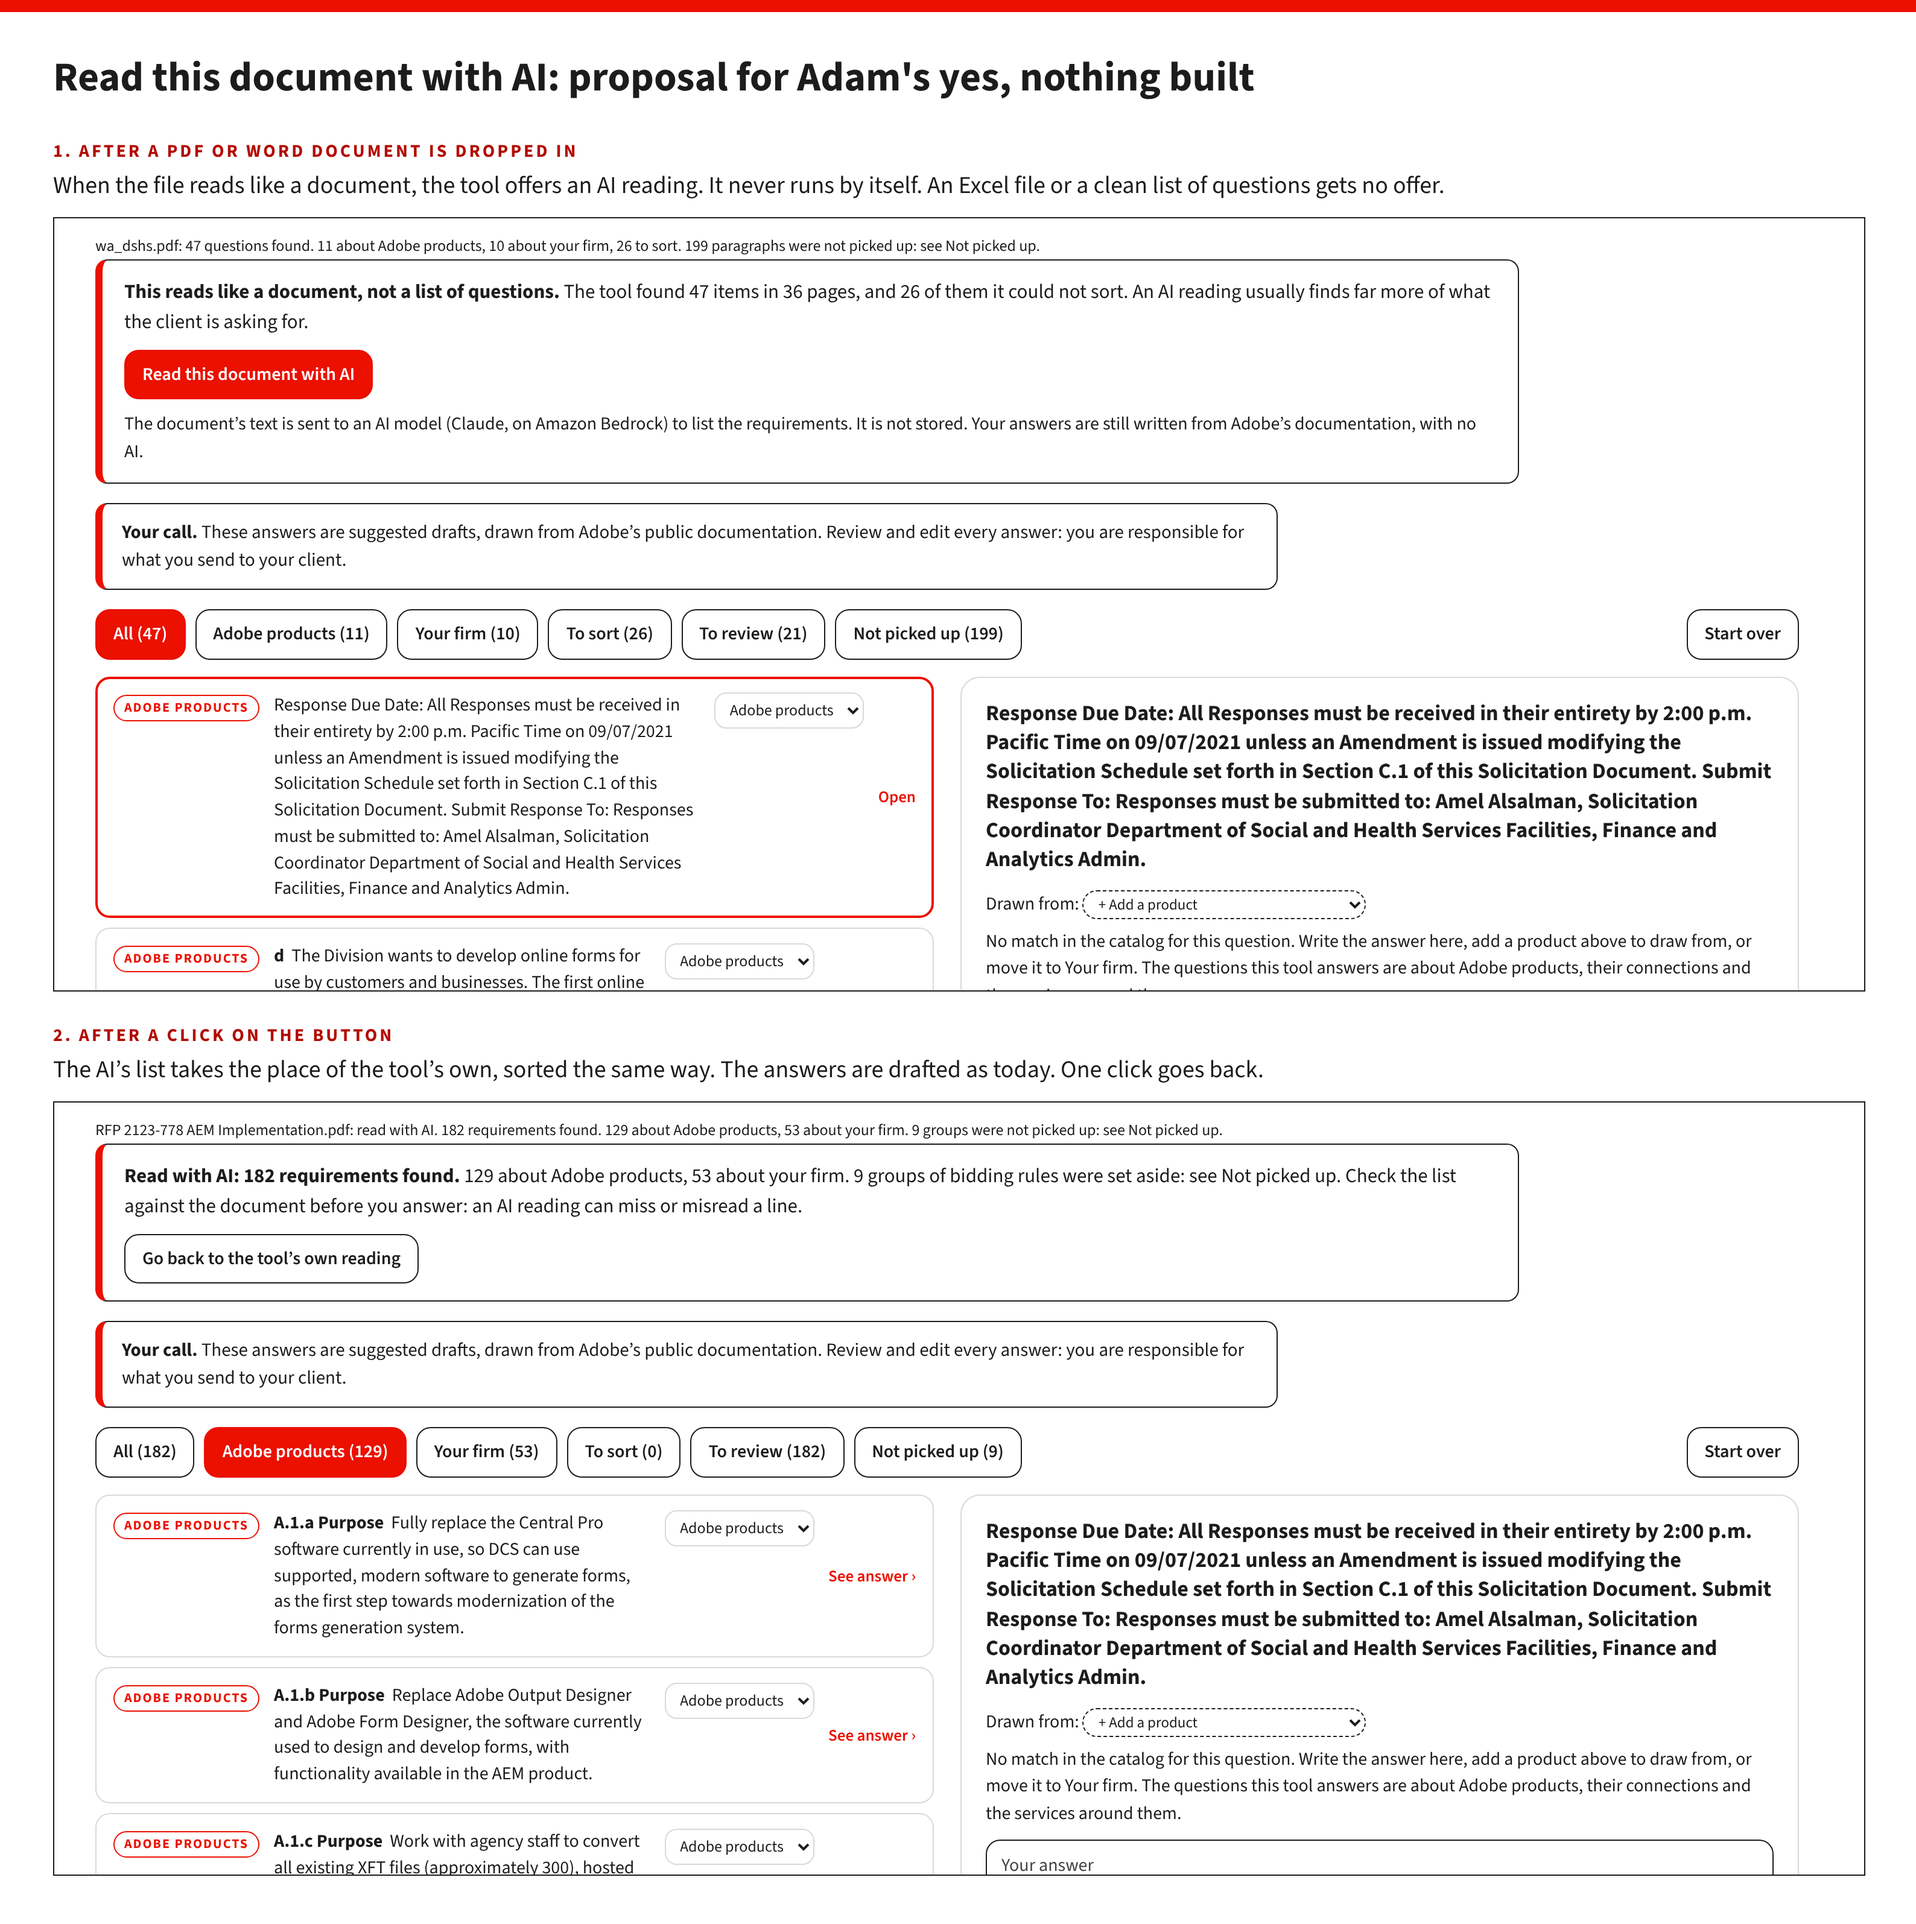
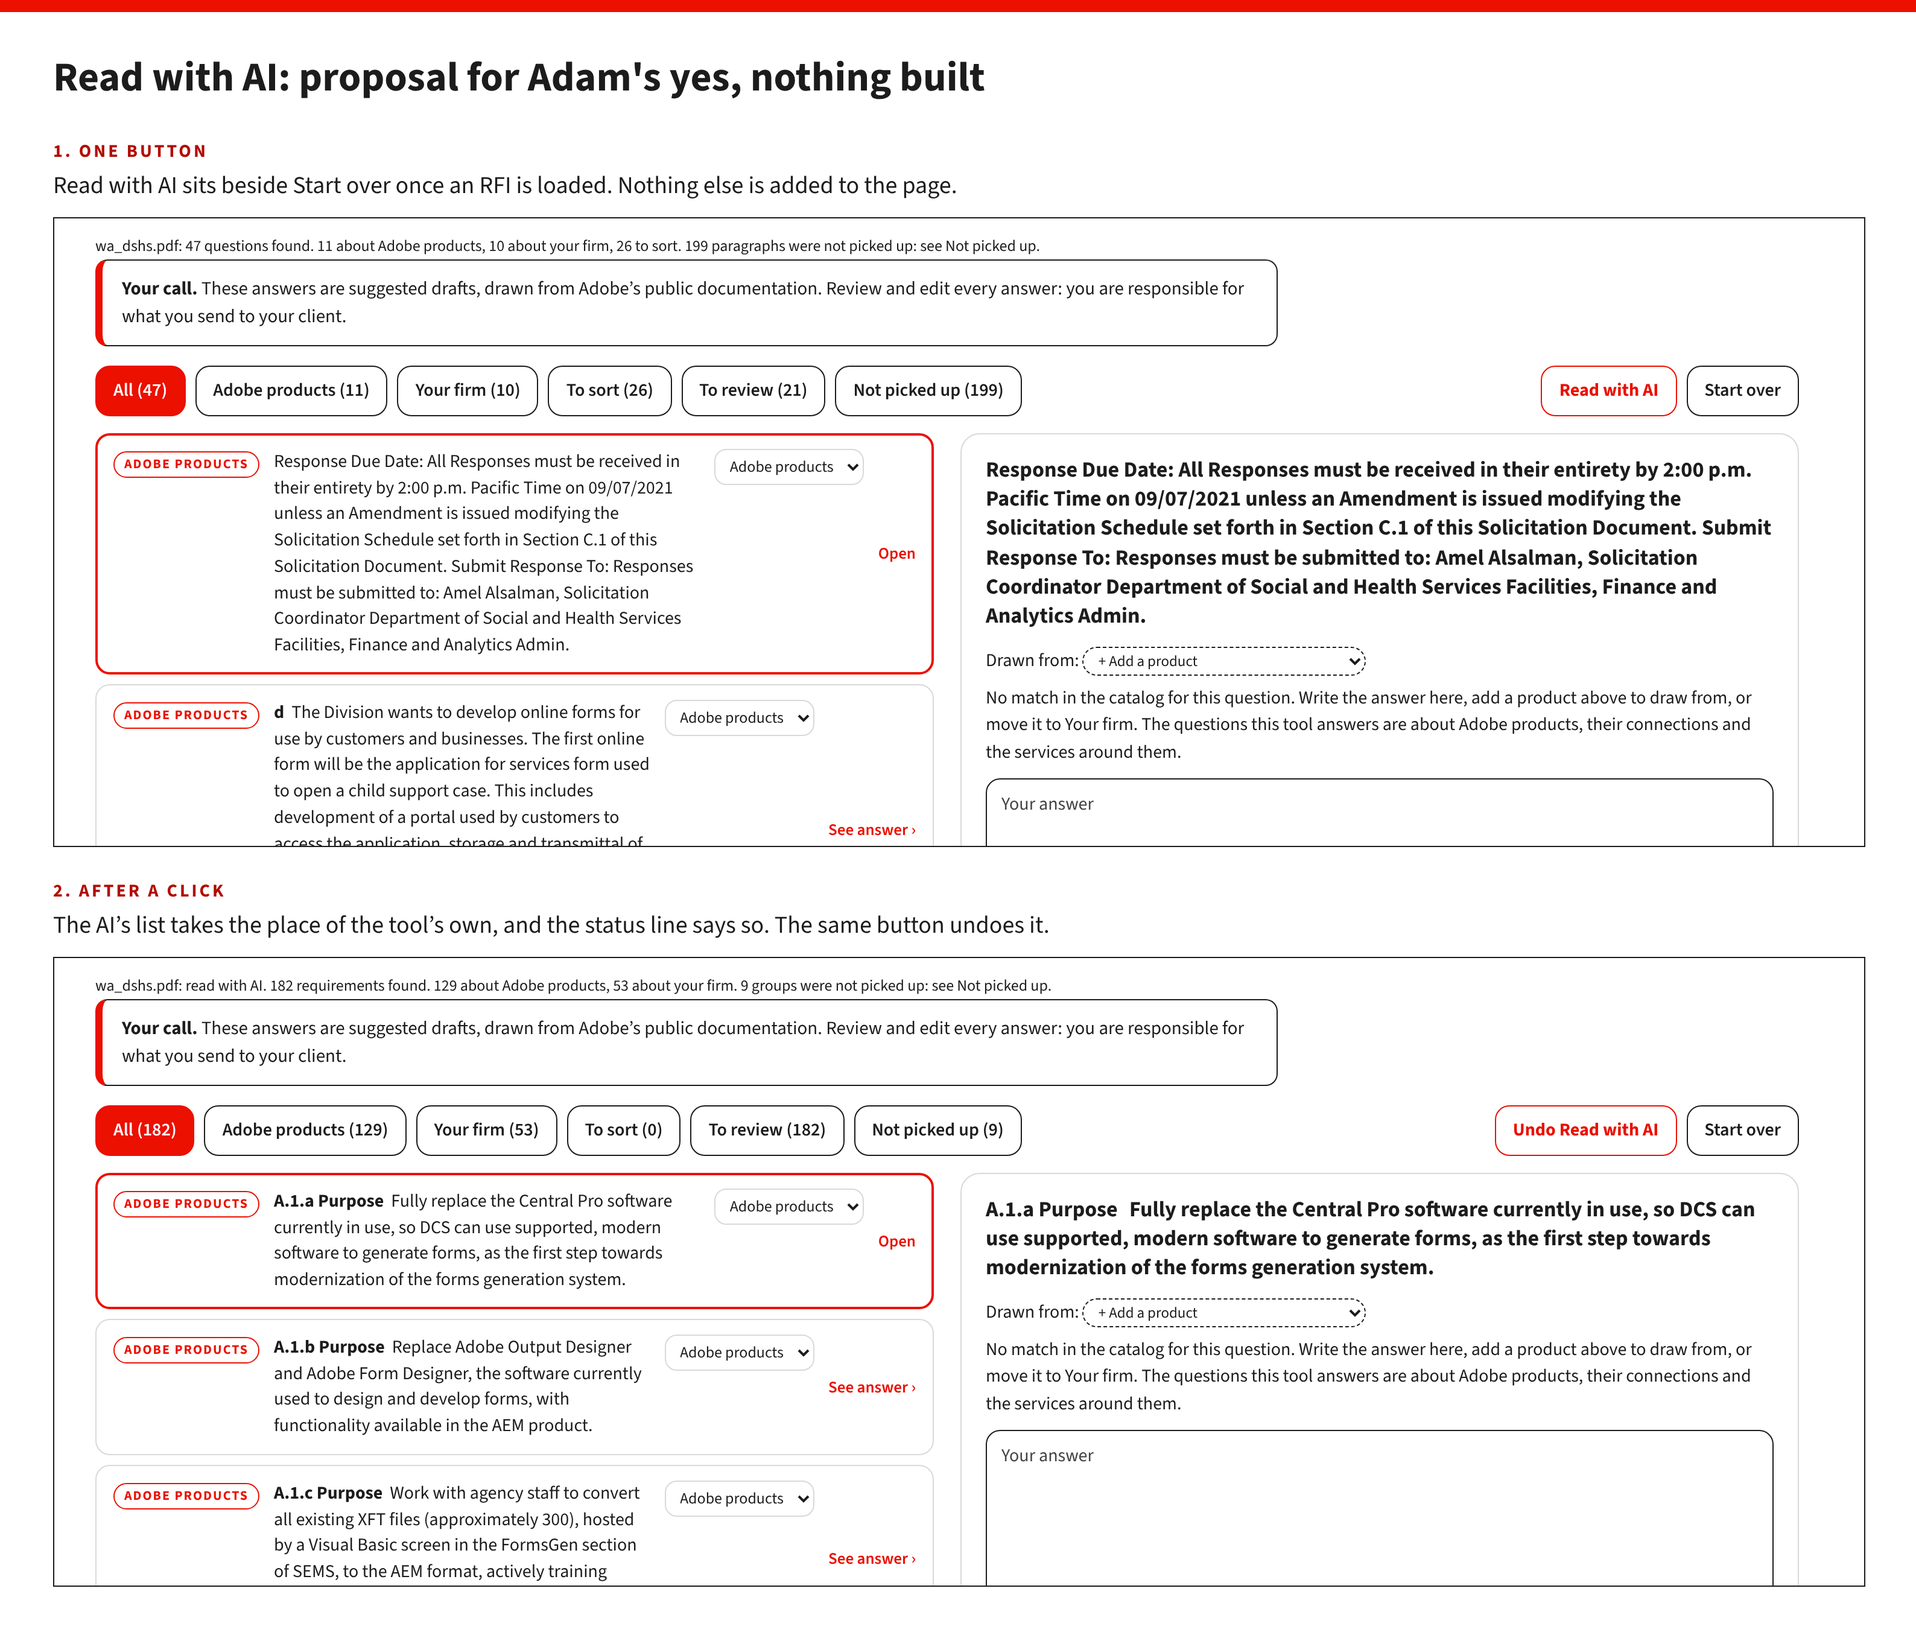
RFI Builder mockup: one Read with AI button beside Start over (proposal, nothing built) [skip netlify]
Claude-Session: https://claude.ai/code/session_01XvxkNfGqRHQ5UPPdtg61em

diff --git a/mockups/nov11_ai_reading/button_mock.js b/mockups/nov11_ai_reading/button_mock.js
@@ -1,4 +1,4 @@
-// Mockup only (Nov 11 2026, Adam: "yes, use sonnet 5 and draw the button"). The RFI Builder with the Washington State RFP
+// Mockup only (Nov 11 2026, Adam: "yes, use sonnet 5 and draw the button", then "just have a button say Read with AI"). The RFI Builder with the Washington State RFP
 // dropped in: the offer to read the document with AI, and the list after the AI reading. Drawn by changing the page in the
 // browser only (the "after" list is the helper model's reading in wa_ai_reading.json): nothing in the tool is changed.
 //   node sow/mockups/nov11_ai_reading/button_mock.js <path to the RFP PDF>     writes ai_button.png
@@ -7,20 +7,16 @@ const {open} = require(path.join(__dirname, '..', '..', 'rfp_prototype', 'review
 const AI = JSON.parse(fs.readFileSync(path.join(__dirname, 'wa_ai_reading.json'), 'utf8')).items;
 (async () => { const h = await open({scale: 2}), p = h.page;
   await h.file(path.resolve(process.argv[2]));
-  const BOX = 'border:1.5px solid #1C1C1C;border-left:6px solid #EB1000;border-radius:10px;padding:14px 18px;margin:0 0 16px;max-width:1180px;background:#fff;color:#1C1C1C';
-  const top = async () => { await p.evaluate(() => { document.getElementById('rfp-status').scrollIntoView({block: 'start'}); window.scrollBy(0, -14); }); await p.waitForTimeout(200); return (await p.screenshot({clip: {x: 0, y: 0, width: 1500, height: 640}})).toString('base64'); };
-  await p.evaluate(BOX => { const d = document.createElement('div'); d.id = 'mock-ai'; d.style.cssText = BOX;
-    d.innerHTML = '<p style="margin:0 0 10px;font-size:16.5px;line-height:1.5"><b>This reads like a document, not a list of questions.</b> The tool found 47 items in 36 pages, and 26 of them it could not sort. An AI reading usually finds far more of what the client is asking for.</p>' +
-      '<p style="margin:0 0 10px"><button type="button" class="primary">Read this document with AI</button></p>' +
-      '<p style="margin:0;font-size:15px;line-height:1.5">The document’s text is sent to an AI model (Claude, on Amazon Bedrock) to list the requirements. It is not stored. Your answers are still written from Adobe’s documentation, with no AI.</p>';
-    document.querySelector('#rfp-results .rfp-your-call').insertAdjacentElement('beforebegin', d); }, BOX);
+  const top = async () => { await p.evaluate(() => { document.getElementById('rfp-status').scrollIntoView({block: 'start'}); window.scrollBy(0, -14); }); await p.waitForTimeout(200); return (await p.screenshot({clip: {x: 0, y: 0, width: 1500, height: 520}})).toString('base64'); };
+  // one button, in the row of filters beside Start over
+  const button = label => p.evaluate(label => { const old = document.getElementById('mock-ai'); if (old) old.remove();
+    const b = document.createElement('button'); b.type = 'button'; b.id = 'mock-ai'; b.textContent = label; b.style.cssText = 'margin-left:auto;border-color:#EB1000;color:#EB1000;font-weight:700';
+    const clear = document.getElementById('rfp-clear'); clear.style.marginLeft = '0'; clear.insertAdjacentElement('beforebegin', b); }, label);
+  await button('Read with AI');
   const before = await top();
-  await h.eval(items => { const S = RFPBuilder.state; S.questions = items.filter(x => x.kind !== 'skip').map((x, i) => ({label: x.ref, text: x.text, kind: x.kind, order: i + 1, section: ''})); S.skipped = items.filter(x => x.kind === 'skip').map((x, i) => ({text: x.text, reason: 'Bidding rules, set aside by the AI reading', order: 1000 + i, section: ''})); S.filter = 'adobe'; S.selected = null; RFPBuilder.renderList(); }, AI);
-  await p.waitForTimeout(300);
-  await p.evaluate(() => { const d = document.getElementById('mock-ai');
-    d.innerHTML = '<p style="margin:0 0 10px;font-size:16.5px;line-height:1.5"><b>Read with AI: 182 requirements found.</b> 129 about Adobe products, 53 about your firm. 9 groups of bidding rules were set aside: see Not picked up. Check the list against the document before you answer: an AI reading can miss or misread a line.</p>' +
-      '<p style="margin:0"><button type="button">Go back to the tool’s own reading</button></p>';
-    document.getElementById('rfp-status').textContent = 'RFP 2123-778 AEM Implementation.pdf: read with AI. 182 requirements found. 129 about Adobe products, 53 about your firm. 9 groups were not picked up: see Not picked up.'; });
+  await h.eval(items => { const S = RFPBuilder.state; S.questions = items.filter(x => x.kind !== 'skip').map((x, i) => ({label: x.ref, text: x.text, kind: x.kind, order: i + 1, section: ''})); S.skipped = items.filter(x => x.kind === 'skip').map((x, i) => ({text: x.text, reason: 'Bidding rules, set aside by the AI reading', order: 1000 + i, section: ''})); S.filter = 'all'; S.selected = 0; RFPBuilder.renderList(); if (RFPBuilder.onRestore) RFPBuilder.onRestore(); }, AI);
+  await p.waitForTimeout(400); await button('Undo Read with AI');
+  await p.evaluate(() => { document.getElementById('rfp-status').textContent = 'wa_dshs.pdf: read with AI. 182 requirements found. 129 about Adobe products, 53 about your firm. 9 groups were not picked up: see Not picked up.'; });
   const after = await top();
   const FONTS = path.join(__dirname, '..', '..', '..', 'video', 'fonts'), b64 = f => fs.readFileSync(f).toString('base64');
   const font = w => `@font-face{font-family:"Source Sans 3";font-weight:${w};src:url(data:font/woff2;base64,${b64(path.join(FONTS, `source-sans-3-latin-${w}-normal.woff2`))}) format("woff2")}`;
@@ -28,9 +24,9 @@ const AI = JSON.parse(fs.readFileSync(path.join(__dirname, 'wa_ai_reading.json')
   const html = `<!doctype html><html><head><meta charset="utf-8"><style>${font(400)}${font(700)}
 body{margin:0;font-family:"Source Sans 3",sans-serif;color:#1C1C1C;background:#fff}.bar{height:10px;background:#EB1000}main{padding:30px 44px 40px;width:1500px}
 h1{font-size:34px;margin:0 0 18px}.k{font-size:15px;font-weight:700;letter-spacing:2px;color:#B30B00;text-transform:uppercase;margin-top:26px}p{font-size:20px;line-height:28px;margin:4px 0 12px}img{width:100%;display:block;border:1.5px solid #1C1C1C}
-</style></head><body><div class="bar"></div><main><h1>Read this document with AI: proposal for Adam's yes, nothing built</h1>
-${part('1. After a PDF or Word document is dropped in', 'When the file reads like a document, the tool offers an AI reading. It never runs by itself. An Excel file or a clean list of questions gets no offer.', before)}
-${part('2. After a click on the button', 'The AI’s list takes the place of the tool’s own, sorted the same way. The answers are drafted as today. One click goes back.', after)}
+</style></head><body><div class="bar"></div><main><h1>Read with AI: proposal for Adam's yes, nothing built</h1>
+${part('1. One button', 'Read with AI sits beside Start over once an RFI is loaded. Nothing else is added to the page.', before)}
+${part('2. After a click', 'The AI’s list takes the place of the tool’s own, and the status line says so. The same button undoes it.', after)}
 </main></body></html>`;
   if (/[–—]/.test(html.replace(/data:[^"')]+/g, ''))) throw new Error('a dash in the page');
   const pg = await p.context().newPage(); await pg.setViewportSize({width: 1588, height: 900}); await pg.setContent(html); await pg.waitForTimeout(400);
